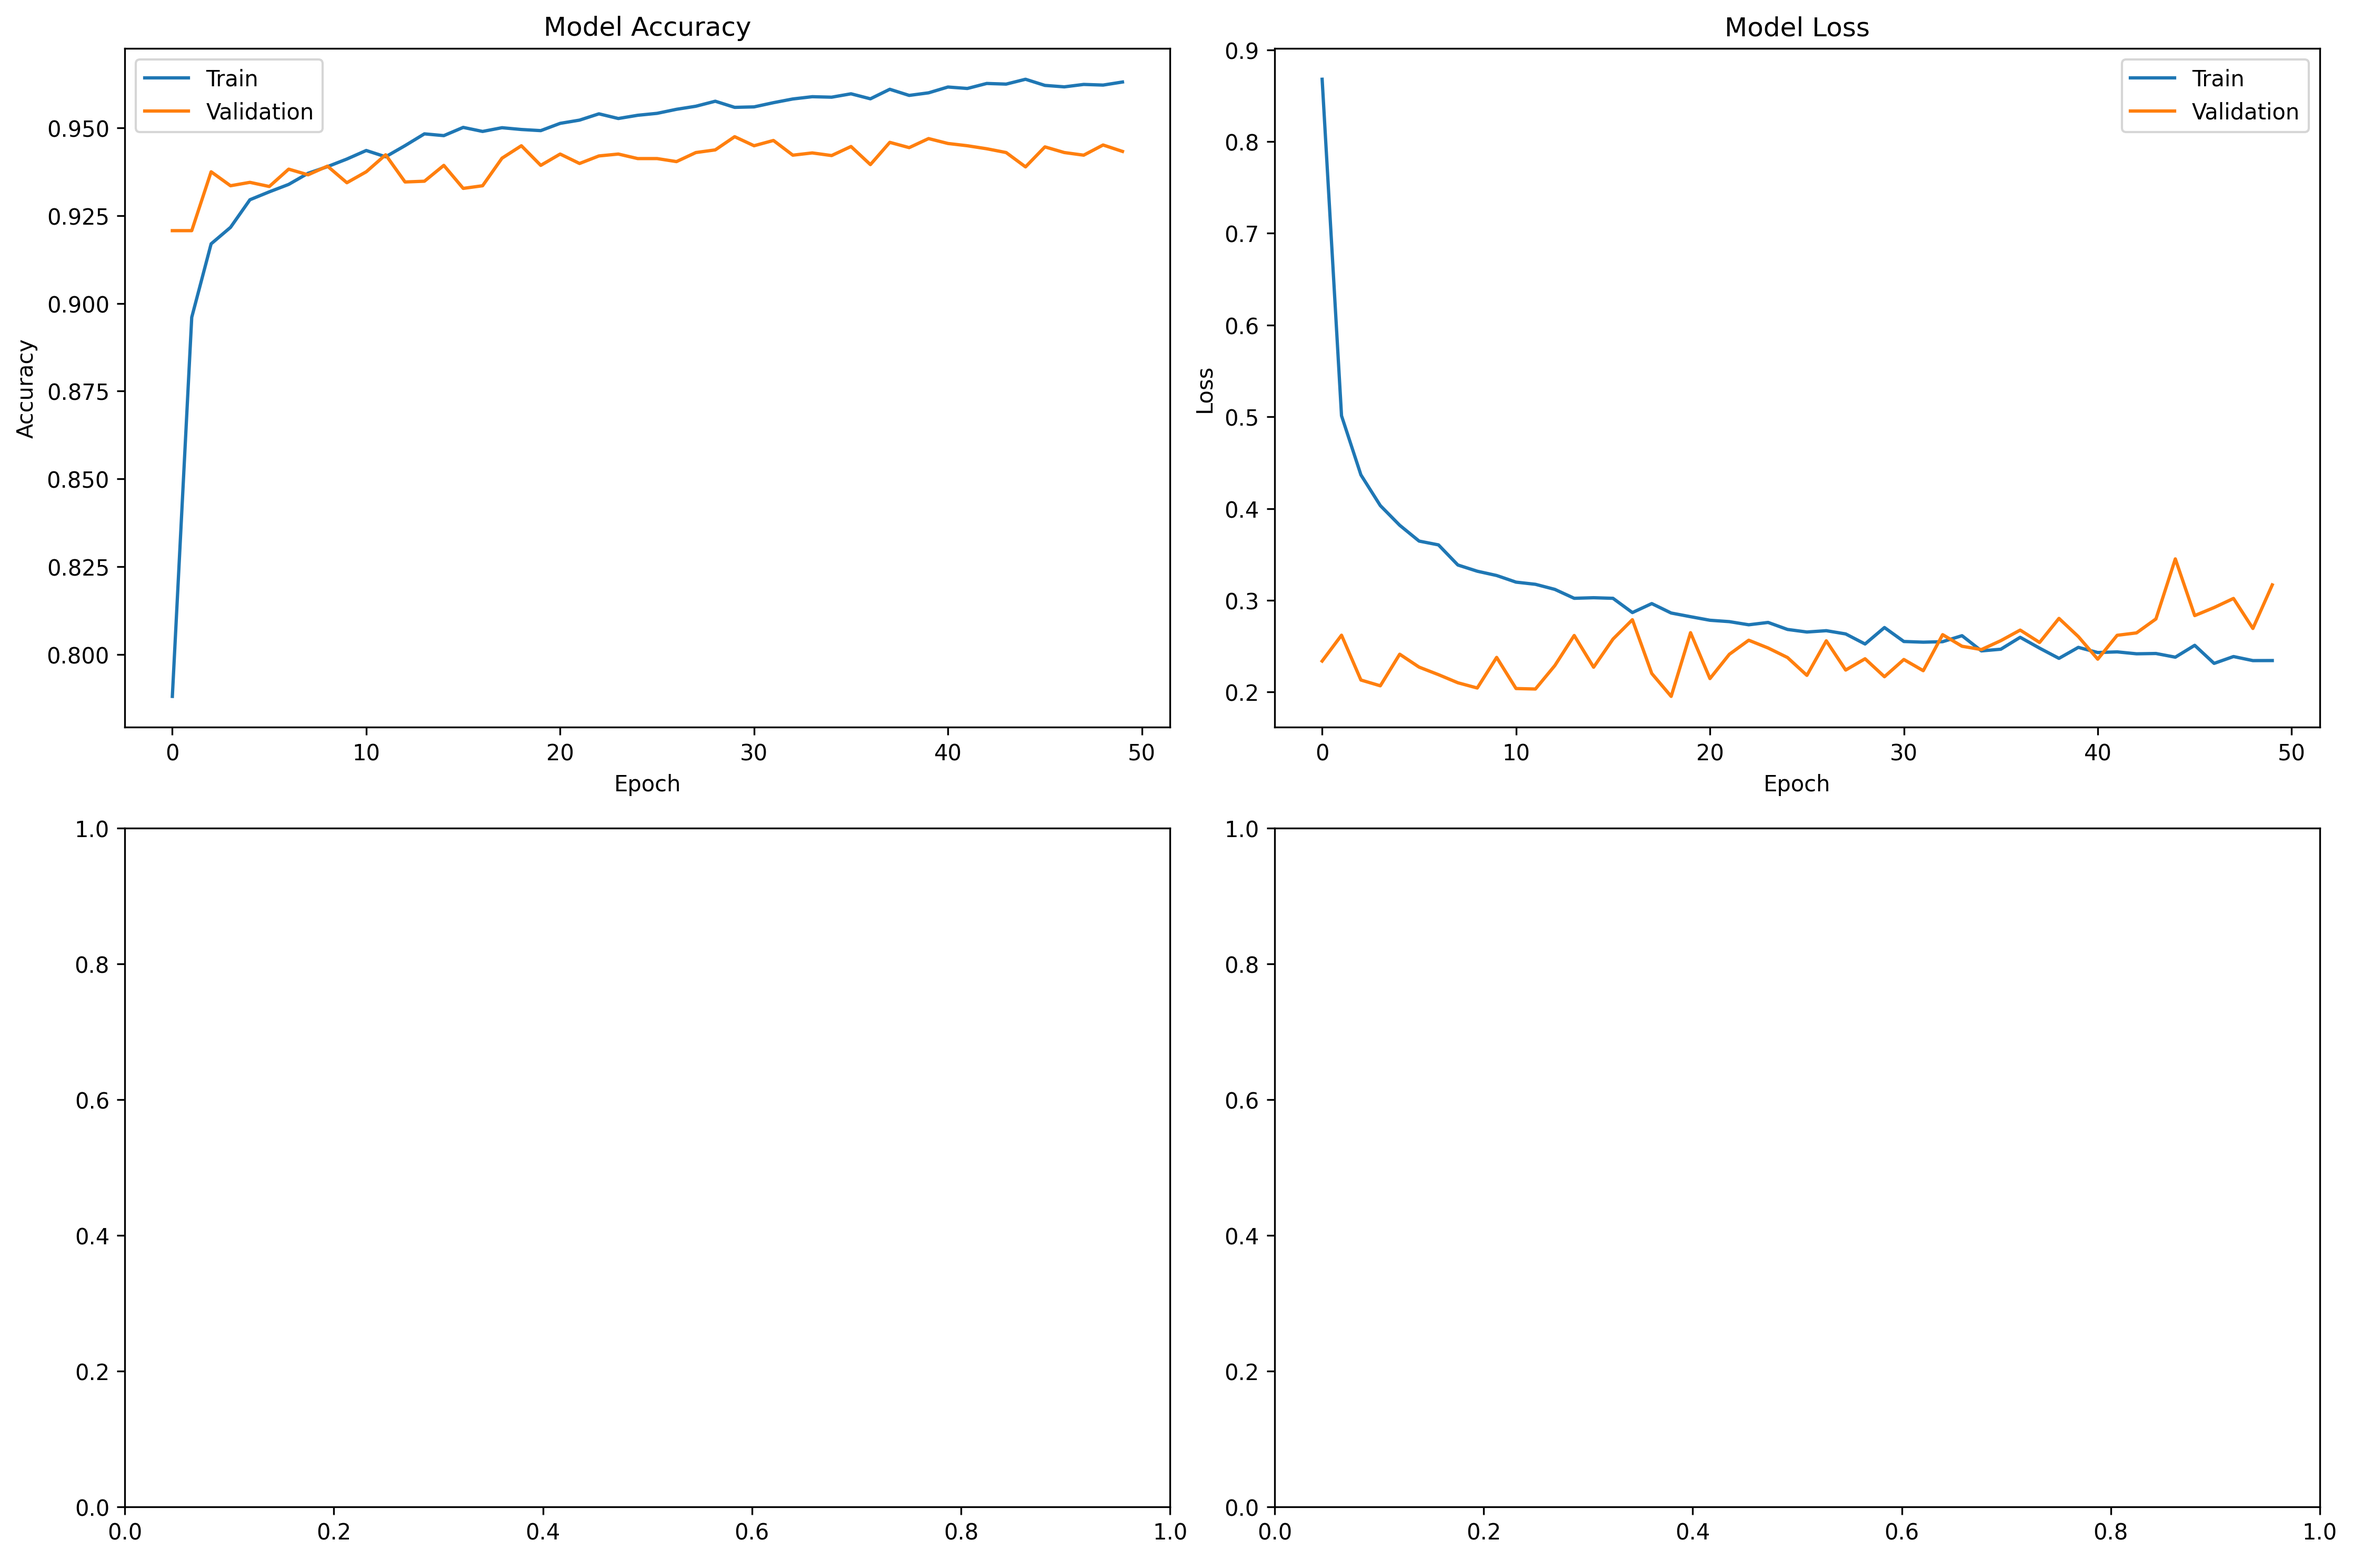
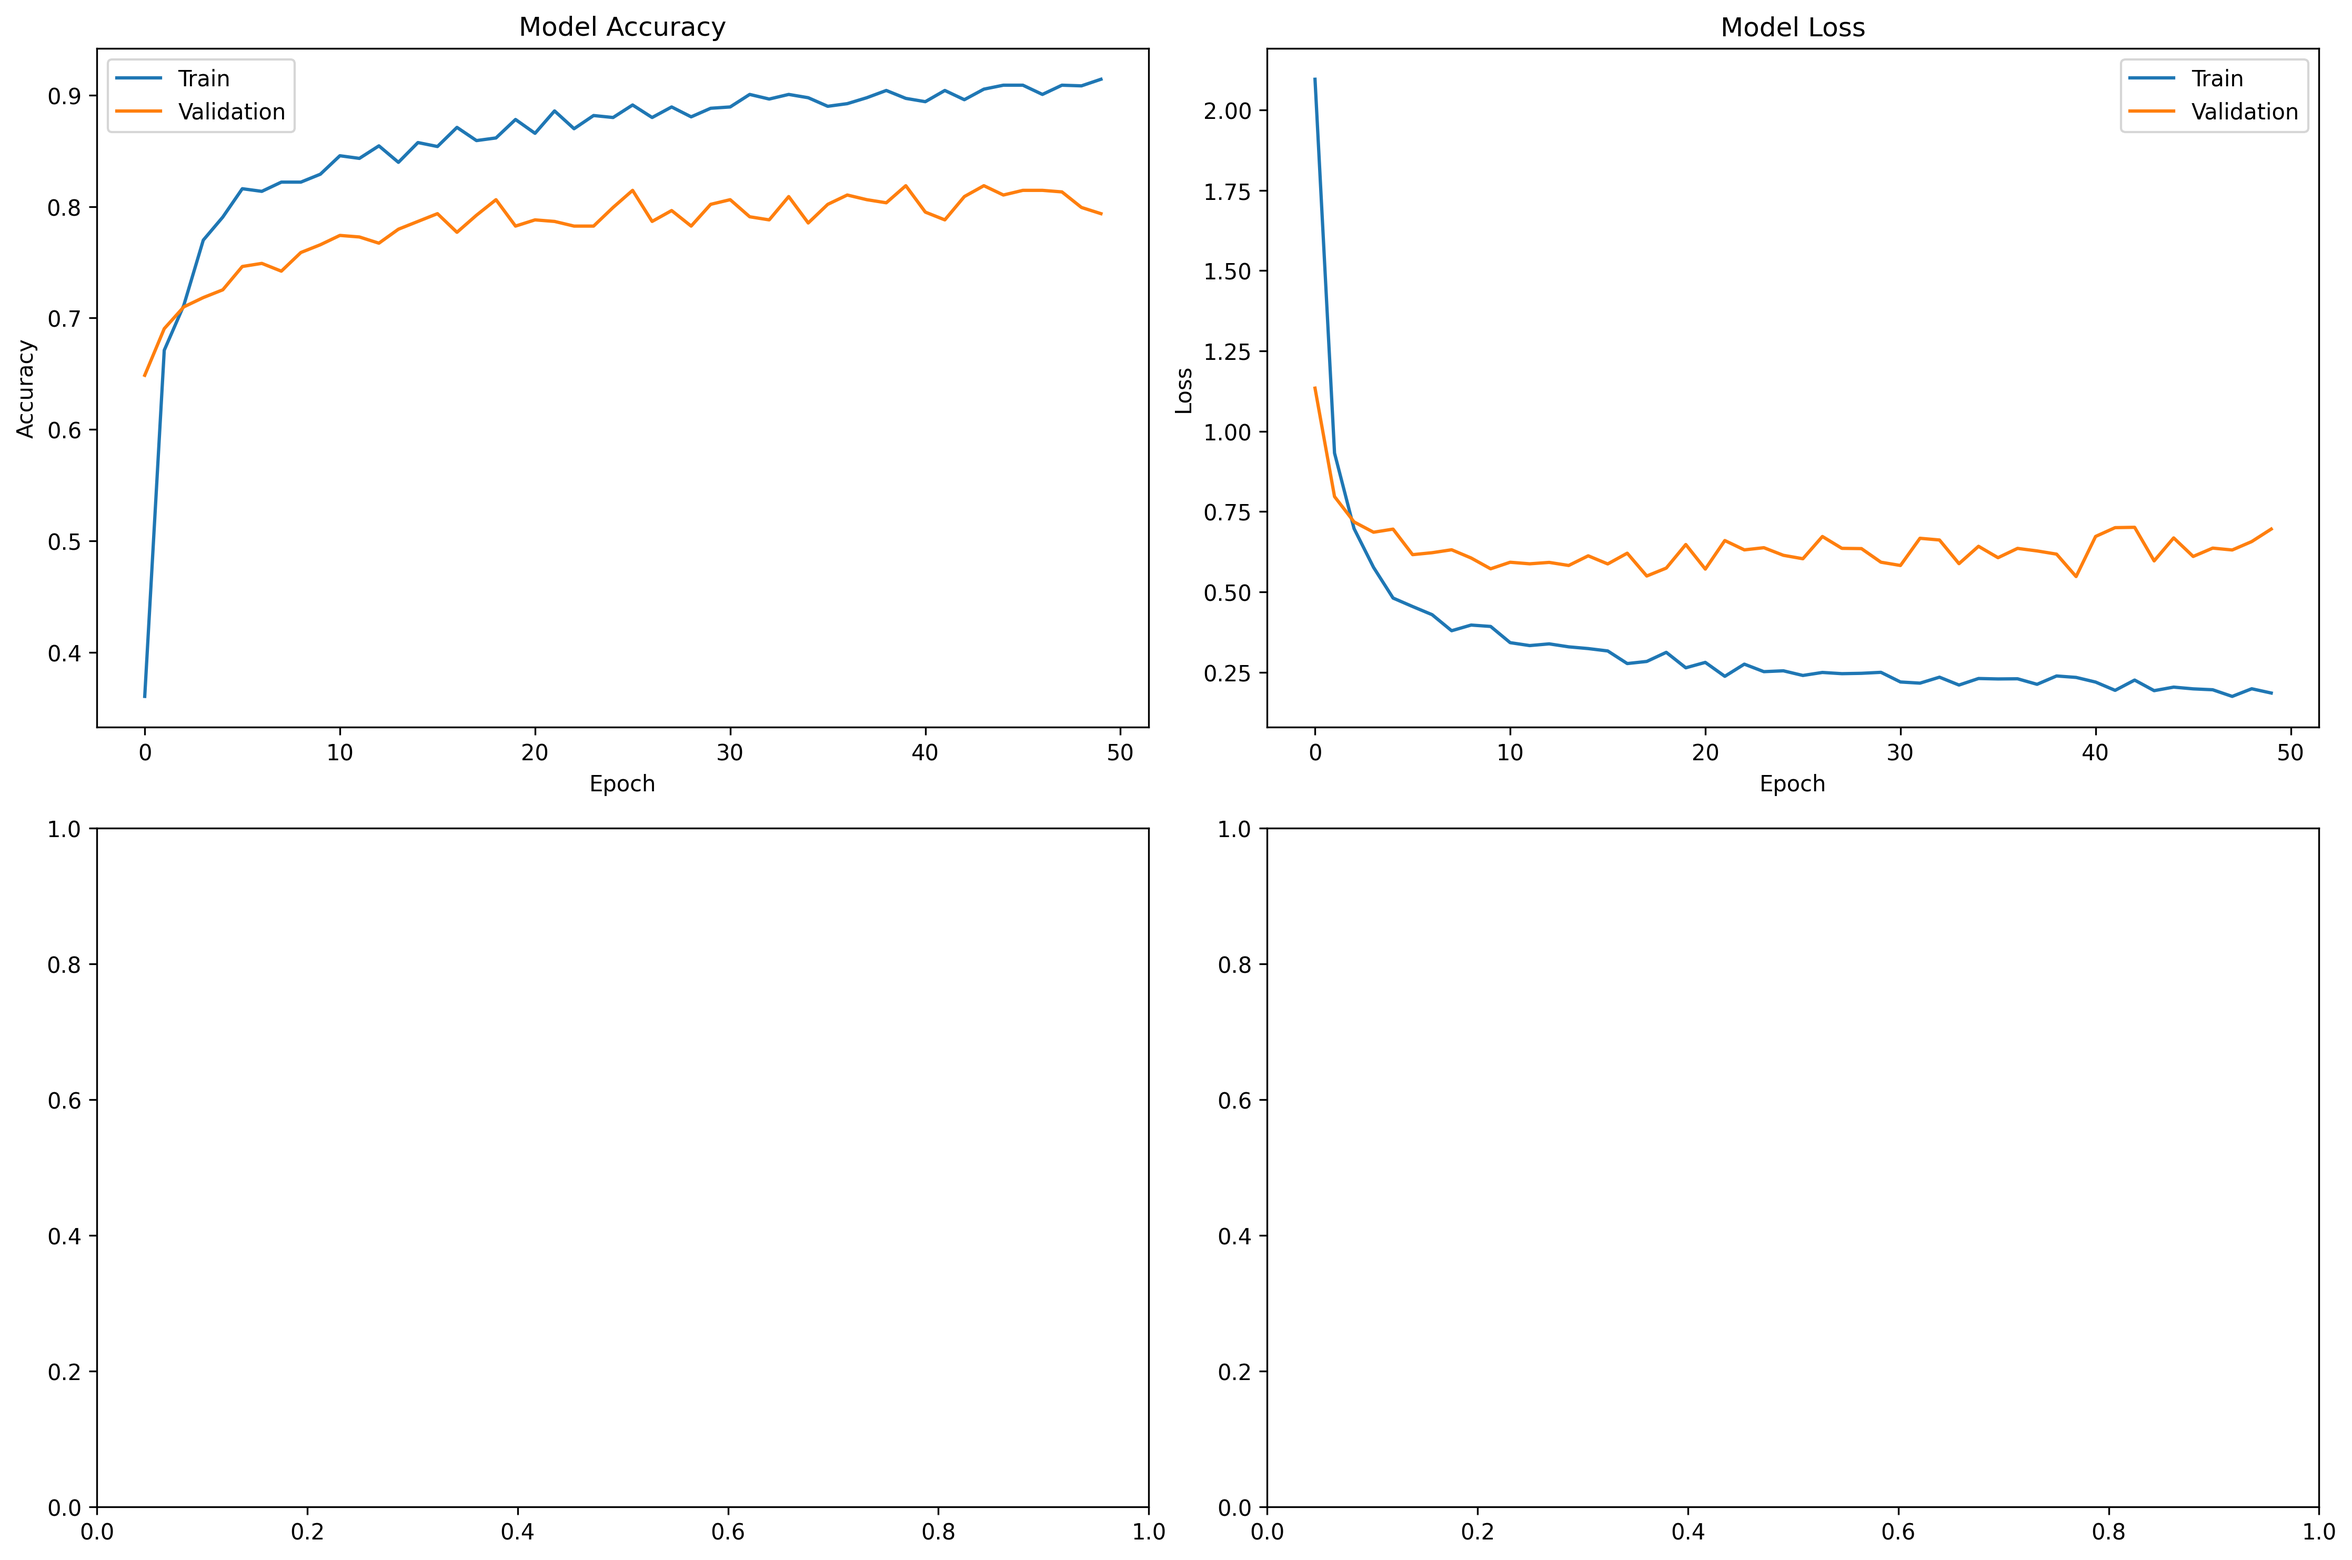
ResNet152

diff --git a/src/model_factory.py b/src/model_factory.py
@@ -30,7 +30,7 @@ SIREEN_MODELS = [
     'ConvNeXtTiny', 'ConvNeXtSmall'
 ]
 
-TALA_MODELS = [
+TALA_MODELS = [R
     'ResNet101', 'ResNet101V2', 'InceptionV3', 'InceptionResNetV2',
     'NASNetMobile', 'NASNetLarge', 'EfficientNetB6', 'EfficientNetB7',
     'EfficientNetV2B1', 'EfficientNetV2B2', 'EfficientNetV2B3',
